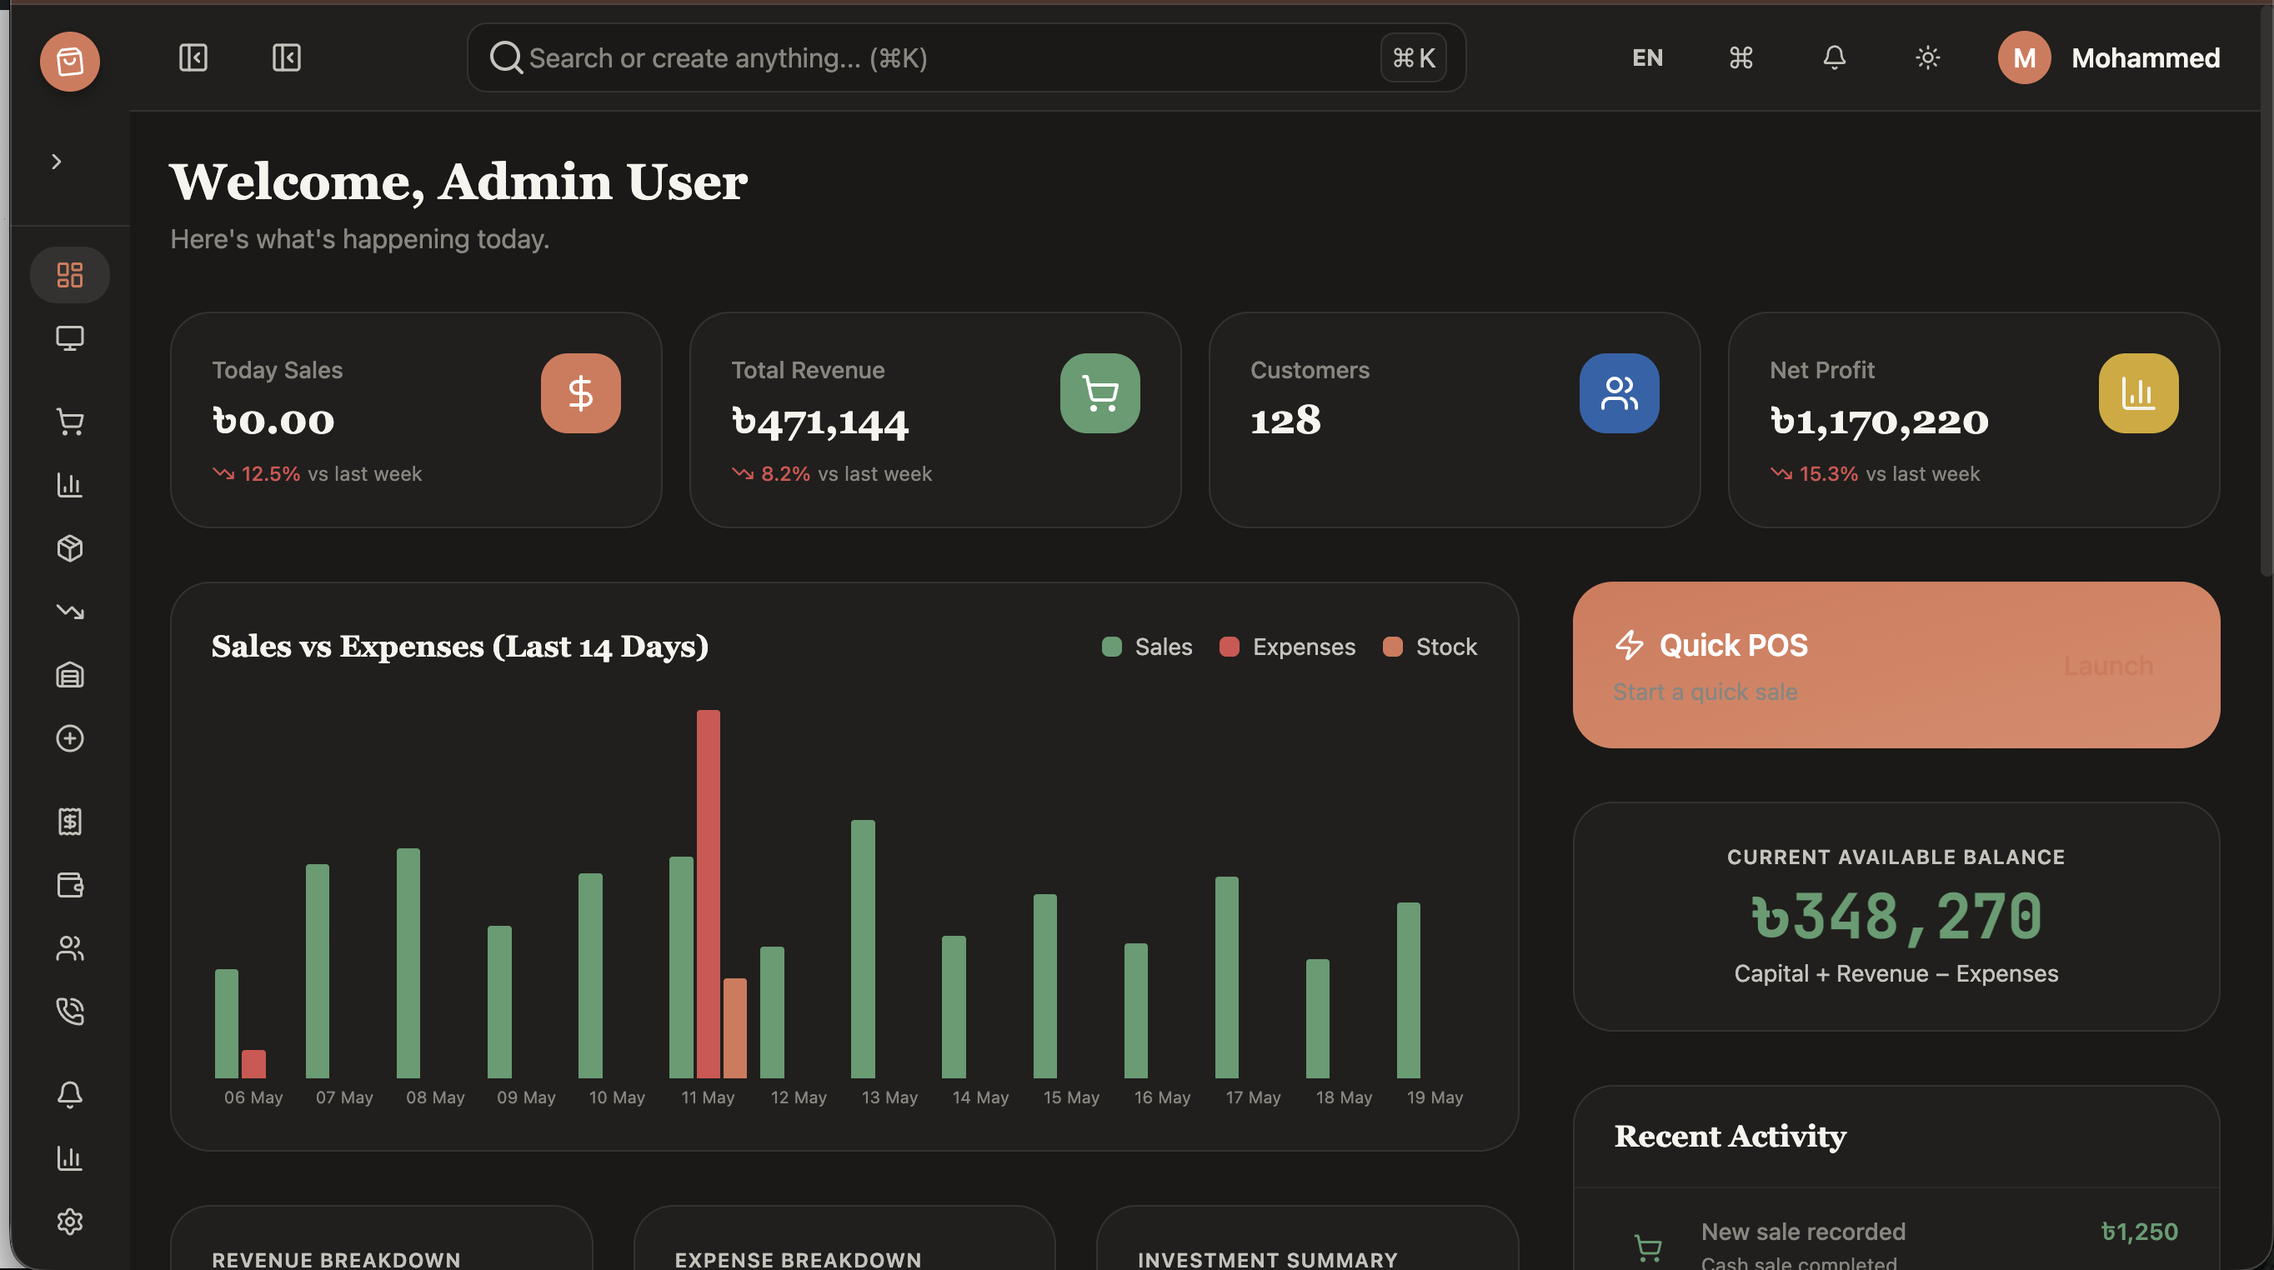
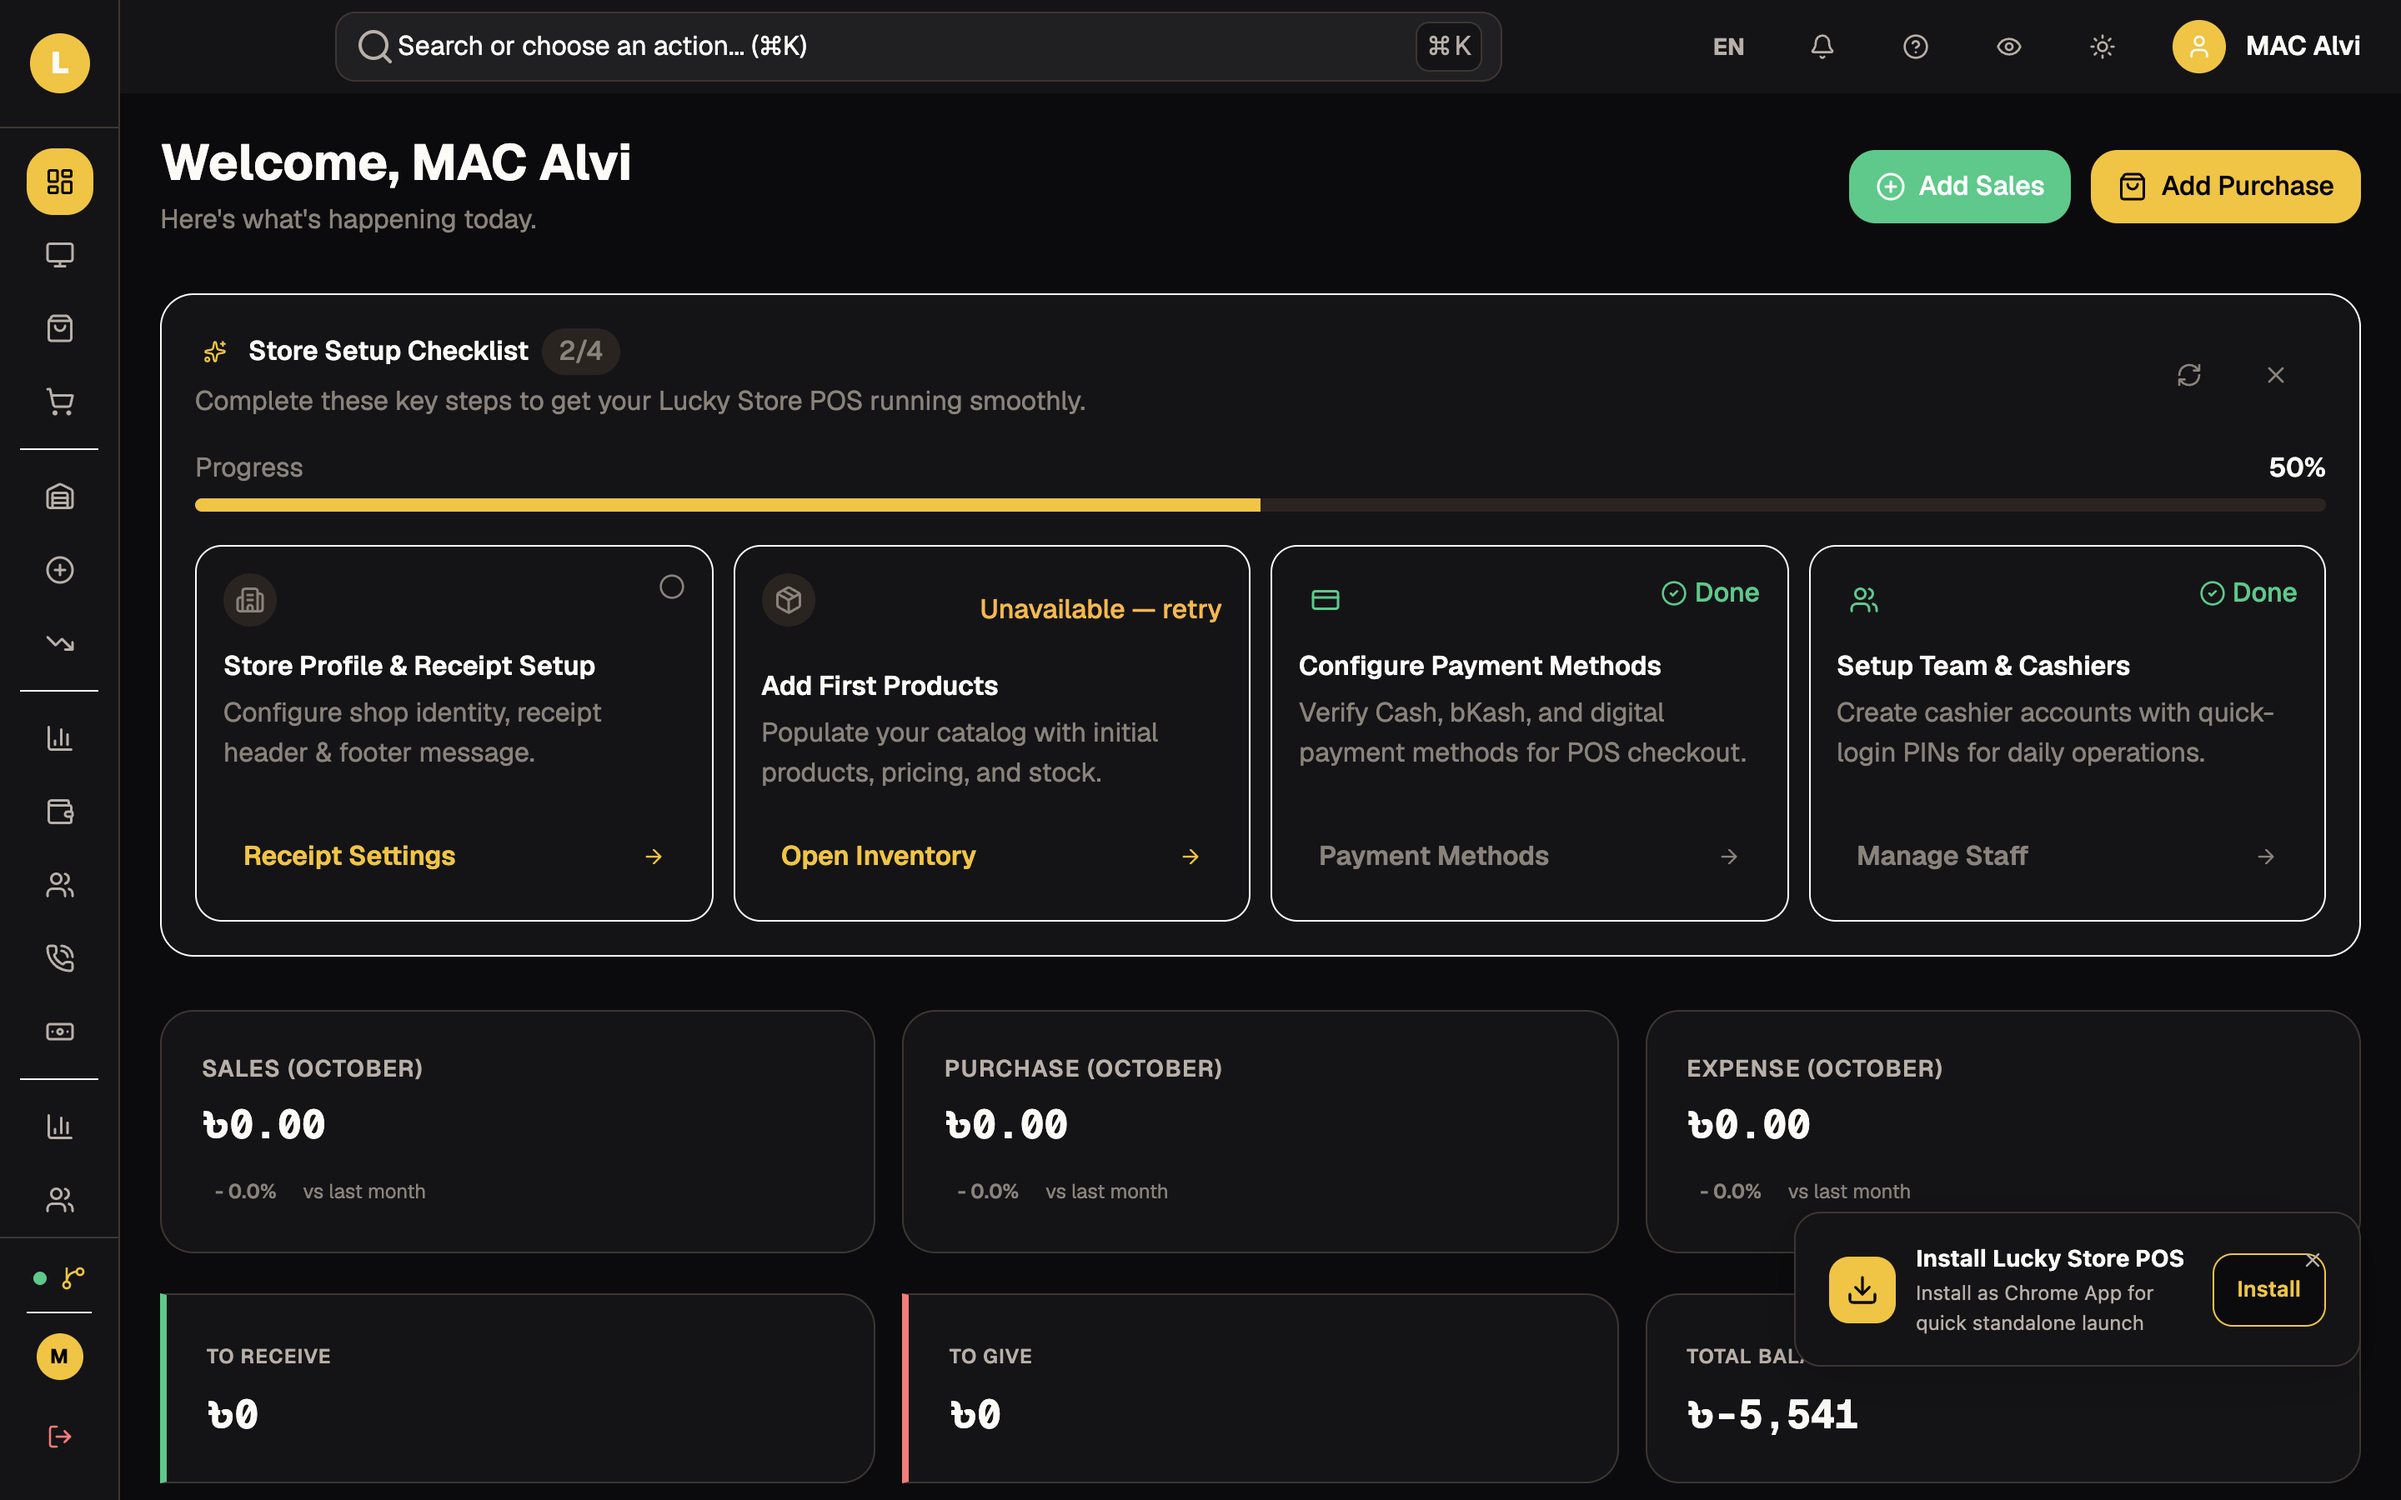
docs(screenshots): update admin web screenshots to reflect new shadcn interface and brand theme

diff --git a/context.md b/context.md
@@ -1,8 +1,8 @@
 [Project]
 Stack: Next.js 15 (customer_storefront), React 19/Vite (admin_web), Flutter (mobile_app), Expo SDK 57 (customer_mobile), Supabase, Cloudflare Workers/R2
-Current: Post-merge validation & monitoring
-Done: PR #446 merged; PR #447 merged (slugify Unicode dash resilience, v_storefront_products view, admin_web cubic-bezier tokens, turbo.json globalEnv caching)
-Branch: main
-Health: main up to date, CI 11/11 green, admin_web 0 warnings, 0 leaks
+Current: Update admin web showcase screenshots
+Done: Captured 7 Retina screenshots (2880x1800) of new shadcn admin_web UI
+Branch: docs/update-admin-screenshots
+Health: main up to date, CI green, admin_web 0 warnings, 0 leaks
 Last Synced: 2026-10-13
-ctx: storefront-admin-optimizations | done: PR #447 merged into main (c8812f5b) | next: none (pipeline clean)
+ctx: admin-screenshots | done: 7 screenshots staged | next: open PR & await CI
